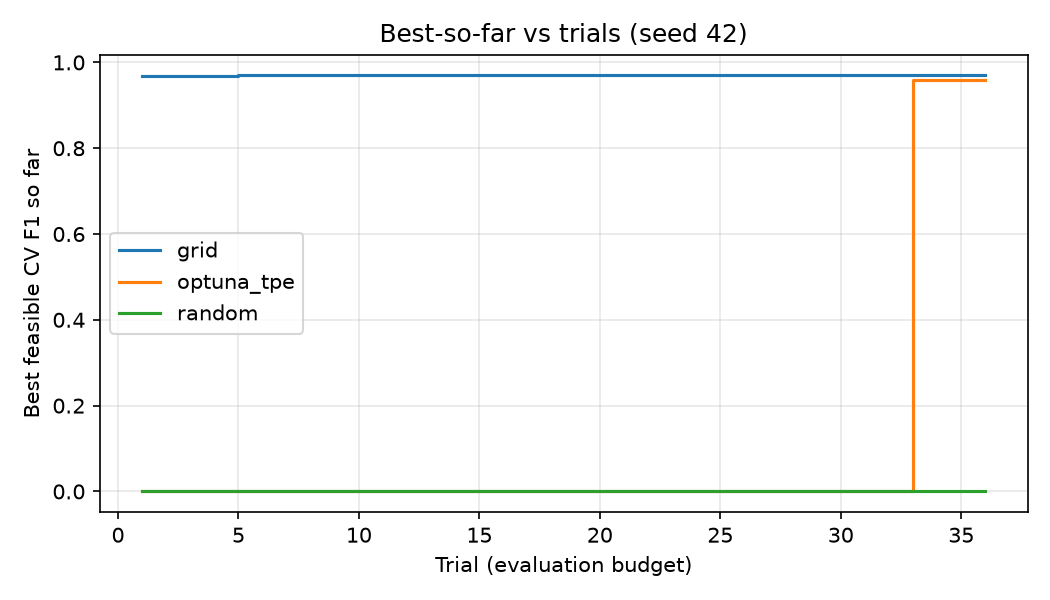
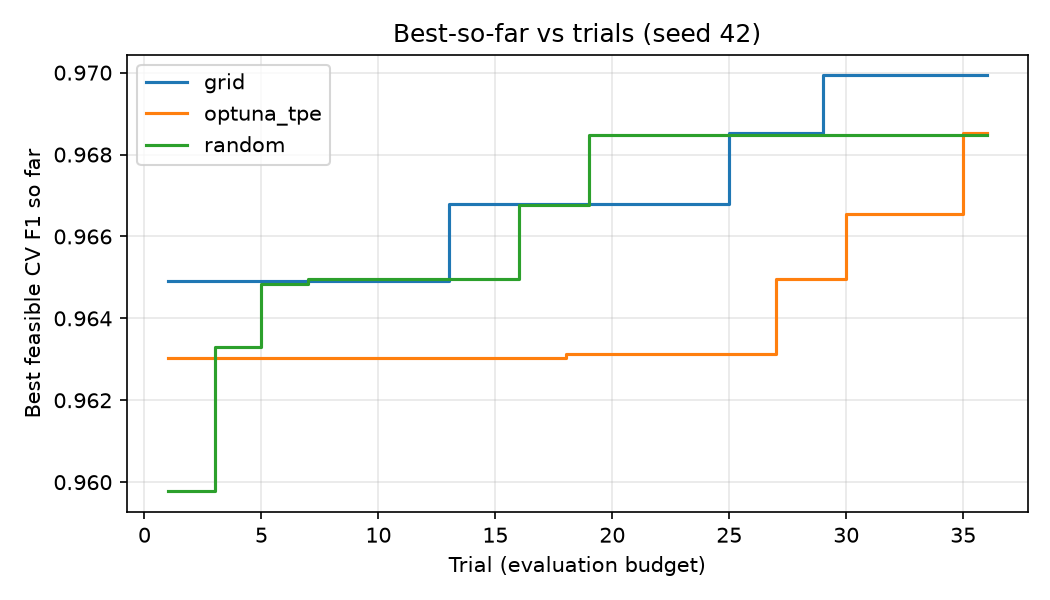
Week 3: revise search space (n_estimators 10-150) and use soft latency penalty

diff --git a/src/search.py b/src/search.py
@@ -2,13 +2,14 @@
 import numpy as np
 import pandas as pd
 import optuna
-from common import load_data, evaluate, SEED
+from common import load_data, evaluate, SEED, LATENCY_LIMIT_MS
 
 optuna.logging.set_verbosity(optuna.logging.WARNING)
 BUDGET = 36
+N_EST_RANGE = (10, 150)
 
 GRID = {
-    "n_estimators": [100, 300, 500],
+    "n_estimators": [20, 60, 100],
     "max_depth": [5, 10, 20],
     "min_samples_leaf": [1, 4],
     "max_features": ["sqrt", None],
@@ -16,9 +17,10 @@ GRID = {
 
 
 def score(params, X, y, seed):
-    """Objective co phat rang buoc: infeasible -> 0."""
+    """Objective voi phat mem: F1 - 0.5 * max(0, latency - limit) / limit."""
     res = evaluate(params, X, y, seed=seed)
-    res["objective"] = res["cv_f1"] if res["feasible"] else 0.0
+    over = max(0.0, res["latency_median_ms"] - LATENCY_LIMIT_MS)
+    res["objective"] = res["cv_f1"] - 0.5 * over / LATENCY_LIMIT_MS
     return res
 
 
@@ -38,7 +40,7 @@ def run_grid(X, y, seed):
 
 def sample_random(rng):
     return {
-        "n_estimators": int(rng.integers(100, 801)),
+        "n_estimators": int(rng.integers(N_EST_RANGE[0], N_EST_RANGE[1] + 1)),
         "max_depth": int(rng.integers(3, 21)),
         "min_samples_split": int(rng.integers(2, 21)),
         "min_samples_leaf": int(rng.integers(1, 11)),
@@ -60,7 +62,7 @@ def run_optuna(X, y, seed):
 
     def objective(trial):
         params = {
-            "n_estimators": trial.suggest_int("n_estimators", 100, 800),
+            "n_estimators": trial.suggest_int("n_estimators", *N_EST_RANGE),
             "max_depth": trial.suggest_int("max_depth", 3, 20),
             "min_samples_split": trial.suggest_int("min_samples_split", 2, 20),
             "min_samples_leaf": trial.suggest_int("min_samples_leaf", 1, 10),
@@ -84,7 +86,9 @@ if __name__ == "__main__":
         print("Running", name, "...")
         all_rows += fn(X_dev, y_dev, seed)
     df = pd.DataFrame(all_rows)
-    df["best_so_far"] = df.groupby("method")["objective"].cummax()
+    df["feas_f1"] = np.where(df["feasible"], df["cv_f1"], 0.0)
+    df["best_feasible_f1"] = df.groupby("method")["feas_f1"].cummax()
+    df = df.drop(columns="feas_f1")
     df.to_csv(f"results/trials_seed{seed}.csv", index=False)
-    print(df.groupby("method")[["objective", "cv_f1", "latency_median_ms"]].agg(["max", "mean"]).round(4).to_string())
+    print(df.groupby("method")[["best_feasible_f1"]].max().round(4).to_string())
     print("Feasible trials:", df.groupby("method")["feasible"].sum().to_dict())

diff --git a/src/plot_convergence.py b/src/plot_convergence.py
@@ -9,7 +9,7 @@ df = pd.read_csv(f"results/trials_seed{seed}.csv")
 
 fig, ax = plt.subplots(figsize=(7, 4))
 for method, g in df.groupby("method"):
-    ax.step(g["trial"] + 1, g["best_so_far"], where="post", label=method)
+    ax.step(g["trial"] + 1, g["best_feasible_f1"], where="post", label=method)
 ax.set_xlabel("Trial (evaluation budget)")
 ax.set_ylabel("Best feasible CV F1 so far")
 ax.set_title(f"Best-so-far vs trials (seed {seed})")

diff --git a/README.md b/README.md
@@ -16,7 +16,7 @@ A Random Forest classifier detects malignant vs. benign tumors. Its hyperparamet
 
 | Variable | Type | Search space |
 |---|---|---|
-| n_estimators | integer | [100, 800] |
+| n_estimators | integer | [10, 150] |
 | max_depth | integer | [3, 20] |
 | min_samples_split | integer | [2, 20] |
 | min_samples_leaf | integer | [1, 10] |
@@ -30,7 +30,7 @@ A Random Forest classifier detects malignant vs. benign tumors. Its hyperparamet
 
     g(x) = latency_median_ms(x) - 5 <= 0
 
-Infeasible configurations (g(x) > 0) are rejected: f(x) is set to 0 (penalty).
+Infeasible configurations are penalized (soft penalty): objective = F1_CV - 0.5 * max(0, latency - 5) / 5. Reported results use only feasible configurations (latency median <= 5 ms).
 
 **Multi-objective view (Week 4):** maximize F1 and minimize latency (and complexity = total tree nodes); report the Pareto front.
 
@@ -56,7 +56,11 @@ Infeasible configurations (g(x) > 0) are rejected: f(x) is set to 0 (penalty).
 
 All methods use the same data, folds, metric, constraint and budget. Stochastic methods are repeated with 10 seeds and reported as mean +/- std. The test set is evaluated once, only for the final chosen configuration after refitting on the full development set.
 
-Grid used: n_estimators {100, 300, 500}, max_depth {5, 10, 20}, min_samples_leaf {1, 4}, max_features {sqrt, None}; min_samples_split fixed at 2.
+Grid used: n_estimators {20, 60, 100}, max_depth {5, 10, 20}, min_samples_leaf {1, 4}, max_features {sqrt, None}; min_samples_split fixed at 2.
+
+### Pilot run and search-space revision
+
+A pilot run (seed 42, n_estimators in [100, 800], hard penalty) found 0 feasible trials for Random Search and 1 for Optuna, because almost the whole space exceeded 5 ms (see results/pilot_trials_seed42.csv). Before the main experiments, n_estimators was reduced to [10, 150] and a soft penalty was adopted for all methods. The test set was not used for this decision.
 
 ## 5. Key Results
 
@@ -94,3 +98,4 @@ _To be added in Week 5._
 ## 9. AI assistance
 
 AI tools (Claude) were used to help plan the project and draft code and documentation. All formulations, code and results are checked and understood by the author.
+
